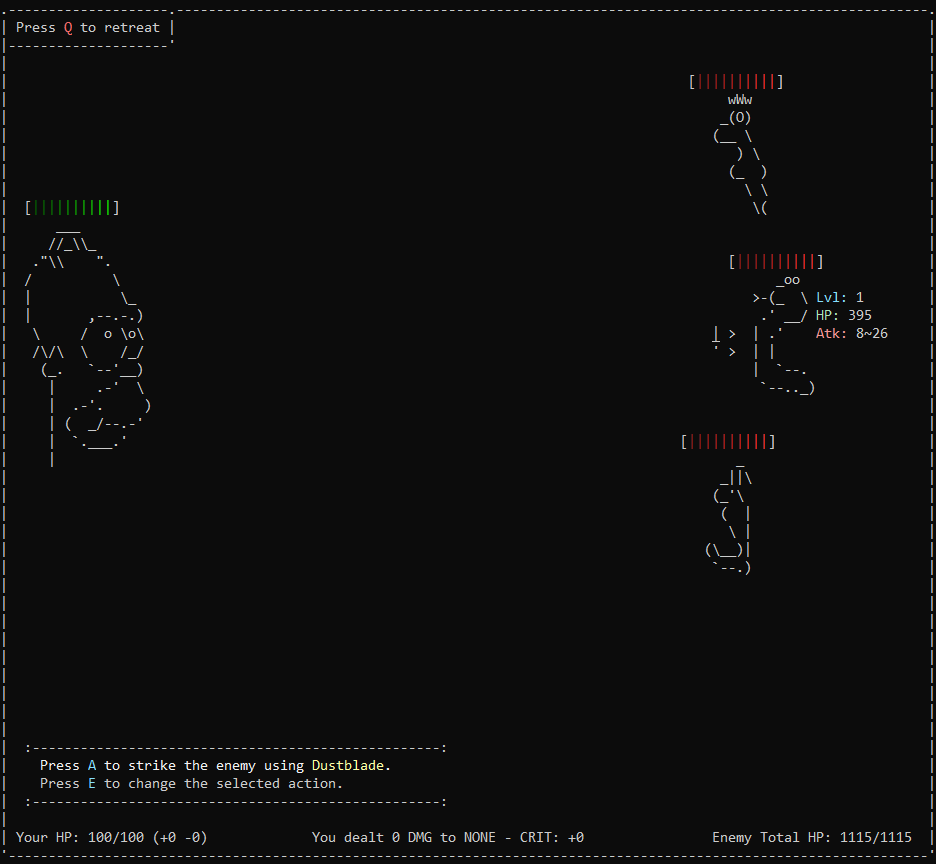
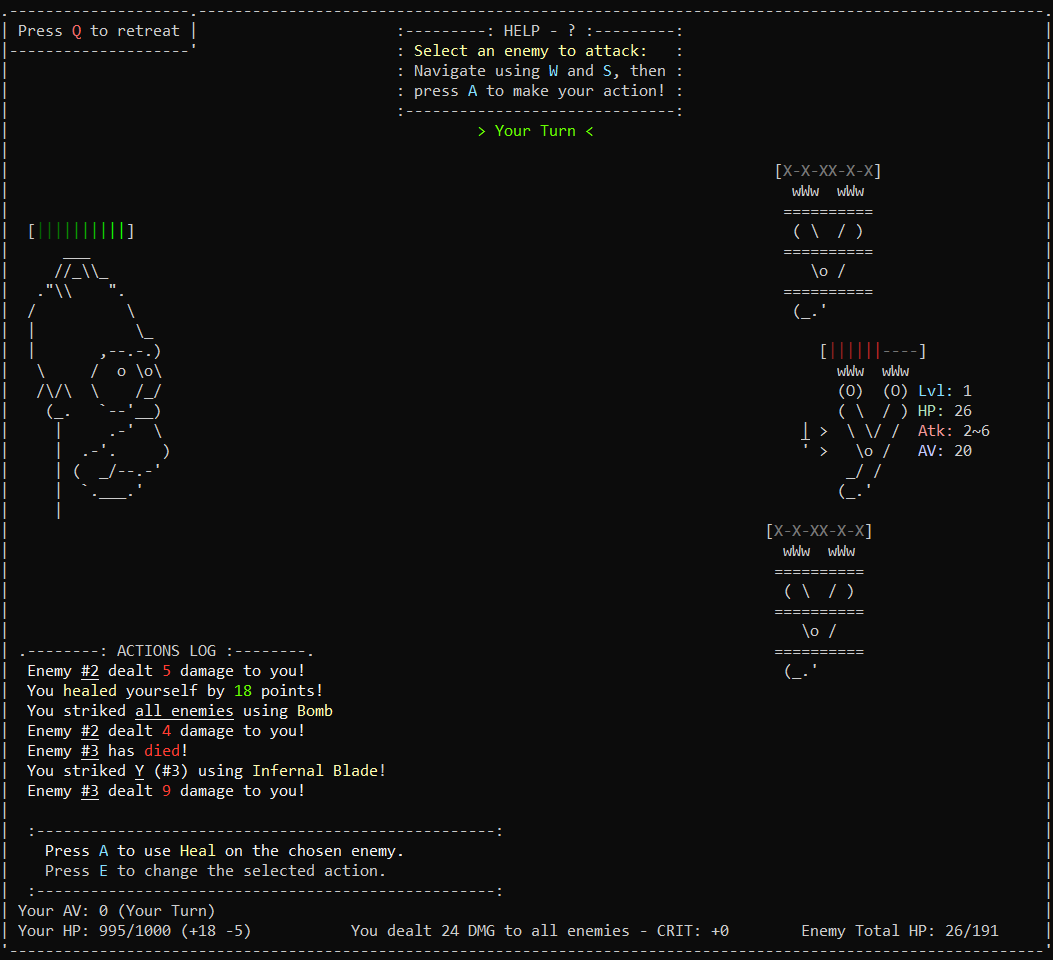
Battle logger improvement. (v0393)
+ Logger updates properly.
+ Now logs enemies that were slowed down.
+ Now logs critical damage.
+ Update readme.md

diff --git a/README.md b/README.md
@@ -68,8 +68,9 @@ Press ***CTRL*** + ***W*** on some User Interfaces to get more information about
     - ***Q***: Move to the previous UI (Menu).
     - Press any **number** to immediately move to a level.
   - **Battle**: 
-    - *Press the First Letter of an Action, e.g. `A` to attack.*
-    - ***E***: Cast special skill.
+    - ***A***: Make your action.
+    - ***E***: Choose an item from your inventory.
+    - ***Z***: Cast special skill.
     - ***Q***: End current battle and move to the previous UI (to the Map).
 
 ## Strategy & Details
@@ -78,30 +79,30 @@ Press ***CTRL*** + ***W*** on some User Interfaces to get more information about
   - Battles of Batch features a turn based combat mechanic, with various features associated within it.
   - Both players and enemies have AVs (Action Values), AV indicates who has the next turn, and in which order. It's important to take note of one's AV so you can make your plan.
 
-### How it Works : Effects (#3.0)
+### How it Works : Effects (#3.1)
   - Effects are turn-based damages, it can be applied on both the player and the enemy. Effects such as poison or fire are useful for damaging the enemies without the need of any more additional player actions.
   - **Fire**: This effect will damage the enemy or the player every registered turn, for a set amount of turns.
   - **Poison**: This effect will damage the enemy or the player every registered 
 
-### How it Works : Enemies (#3.0)
+### How it Works : Enemies (#3.2)
   - Enemies spawn with a random amount of HP, the amount increases depending on the level you have selected.
   - Enemies deal a random amount of damage to the player, the amount increases depending on the level you have selected.
   - Every enemy deals its own damage, so this means once one enemy is dead it will no longer deal damage, dealing less total damage to the player.
   - Some enemies have special ablities, such as poisoning the player.
 
-### How it Works : Skills (#3.1)
+### How it Works : Skills (#3.3)
   - **Main Attack**: Increases your base damage.
   - **Crit Rate**: Increases the chance to throw a critical strike to an enemy.
   - **Max Health**: Increases maximum HP by 100.
 
-### How it Works : Items (#3.2)
-  - **Bomb**: Stuns enemies, skipping their next round/action. Bosses cannot be stunned by this attack type. Effects, such as poison on the player, will still function.
-  - **Heal**: Gives the player HP. This does not skip the next enemy round/action, and still take damage. Thus it's upgradable.
+### How it Works : Items (#3.4)
+  - **Bomb**: Stuns enemies, skipping their next round/action. Bosses cannot be stunned by this attack type. Effects, such as poison on the player, will still function (Not yet an implemented feature).
+  - **Heal**: Increases the HP of the player. This does not skip the next enemy round/action, and the player will still take damage as usual.
   - More Coming Soon!
 
 <details><summary>
 
-### List of all Items (Click) Items (#3.2.1)
+### List of all Items (Click) Items (#3.4.1)
 
 </summary>
 
@@ -153,17 +154,17 @@ Material Items [Released]
 
 </details>
 
-### How it Works : Crafting Items (#3.3)
-  - You can craft items by accessing the Shop, and switching to the Craft tab. Every item requires materials for it to be crafted, once you gather all required materials, you will be able to craft your item.
+### How it Works : Crafting Items (#3.5)
+  - You can craft items by accessing the Shop, and switching to the Craft tab or otherwise by pressing Z on the menu. Every item requires materials for it to be crafted, once you gather all required materials, you will be able to craft your item.
   - Items serve a rich in-game usage. You can equip weapons and other items such bombs or healing pots through your inventory. Weapons usually give you a big boost when it's about fighting enemies, they can give you extra damage and bonus effects.
 
 ## Enemy Details
 ### How Enemies Were Designed (#4.0)
   - The design of the enemies were inspired by the Latin characters and other references. These enemies are unable to wield any weapons, thus they could only upgrade their defense. That's the reason they have way too much HP. Enemies that seem to have something sharp on them can deal a much larger amount of damage compared to other enemies.
   
-  - Additionally, some other enemeis have learnt other combat skills that aren't based on damage but instead on other combat mechanic elements, this fact can make them extremely dangerous when fought unexpectedly.
+  - Additionally, some other enemeis have special abilities or combat skills that aren't based on damage but instead on other combat mechanic elements, this fact can make them extremely dangerous when fought unexpectedly.
 
-  - Many enemies can be extremely difficult to fight, but they have their weaknesses too. For example, if their main weapon is too short there's much more chance for them to miss a hit (Not yet an implemented feature).
+  - Large amounts of enemies can be extremely difficult to fight, but they have their weaknesses too. For example, if their main weapon is too short there's much more chance for them to miss a hit (Not yet an implemented feature).
 
 ### Easy Level (#4.1)
   - **Yara**: It's the first enemy that a beginner will encouter during their first battle. It's one of the weakest enemies, and there is nothing special about them.
@@ -286,7 +287,7 @@ Material Items [Released]
 ![](data/images/preview_map.png)
 
 ### Battle (#6.2)
-  - More Info Soon!
+  - The Battle interface is where you will encounter your true enemies.
 
 ### Character & Equipment (#6.3)
   - The Character & Equipment interface lets you view your character's statistics, customize your character, view your character's history (based in the story) and lets you to equip or unequip items and weapons. At the top center you can view you character and at the right and left you can view the statistics of your character such as, your username, your money, your level, your experience, your total health points, your strength, your chance to strike critical hit and your defense. Below you can view your Items + Equiped Items, your Materials and your Weapons + Equipped Weapons. More statistics are shown when you move to the equipment UI.
